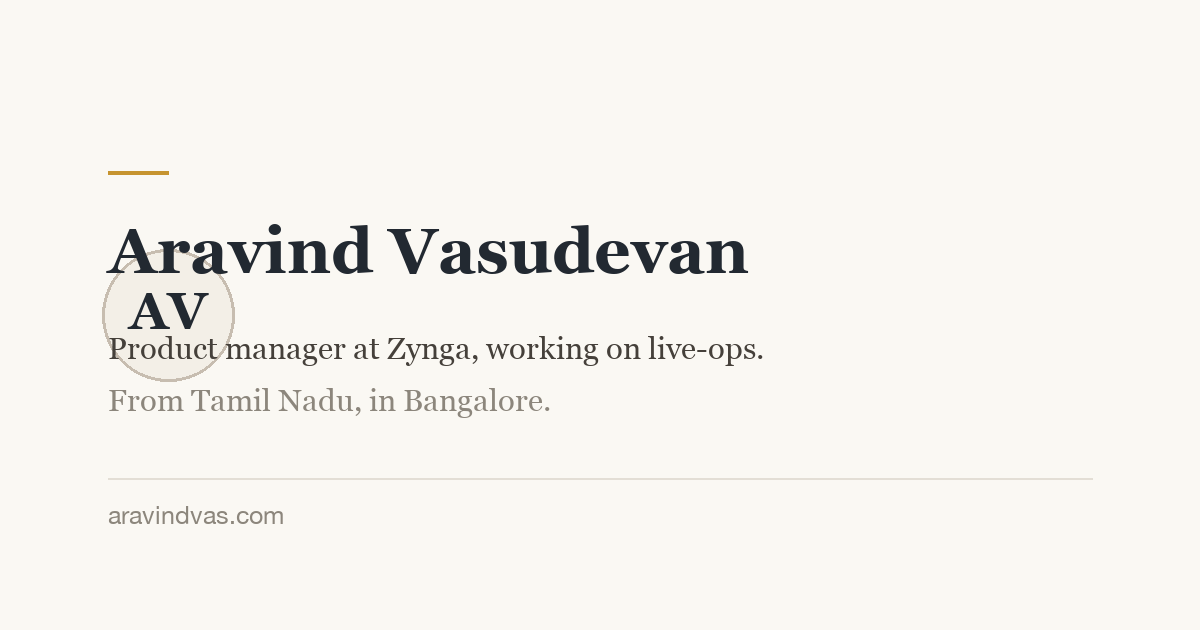
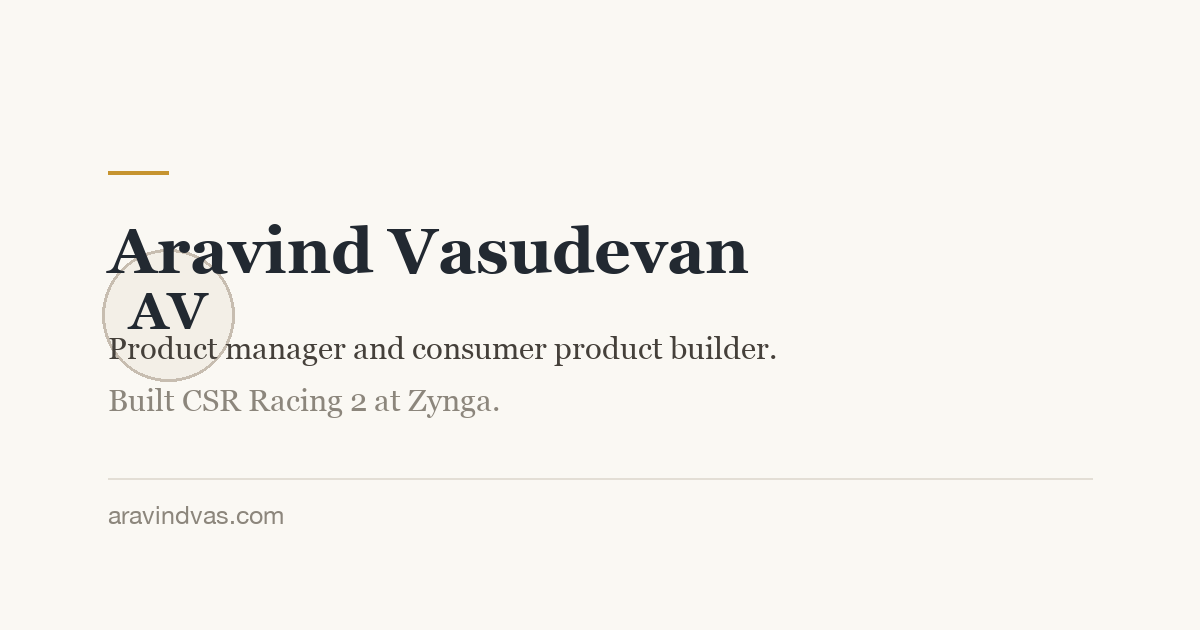
Rewrite both bios in Aravind's own words
Personal: Curious, Social, Chasing Impact; dad to a 2.5 year old;
Bangalore Boy, five languages. Replaces the invented cyclist/chess
copy. Professional: five years at Zynga on CSR Racing 2, owning
LiveOps from decline to growth; ISB MBA.

Also updates meta descriptions, footers, personal Notes and the OG
image to match, and drops the stale Tamil Nadu references.

Changed region(s): [[0.0925, 0.6032, 0.4625, 0.6635], [0.3083, 0.5429, 0.6475, 0.573]]

diff --git a/index.html b/index.html
@@ -5,7 +5,7 @@
 <meta name="viewport" content="width=device-width, initial-scale=1, viewport-fit=cover">
 
 <title>Aravind Vasudevan</title>
-<meta name="description" content="Aravind Vasudevan — product manager at Zynga, working on live-ops. From Tamil Nadu, in Bangalore.">
+<meta name="description" content="Aravind Vasudevan — product manager and consumer product builder. Five years at Zynga building CSR Racing 2, where he owned LiveOps and took the game from decline to growth.">
 
 <link rel="canonical" href="https://aravindvas.com/">
 <meta name="theme-color" content="#fbf9f4" media="(prefers-color-scheme: light)">
@@ -14,15 +14,17 @@
 <meta property="og:type" content="profile">
 <meta property="og:site_name" content="Aravind Vasudevan">
 <meta property="og:title" content="Aravind Vasudevan">
-<meta property="og:description" content="Product manager at Zynga, working on live-ops. From Tamil Nadu, in Bangalore.">
+<meta property="og:description" content="Product manager and consumer product builder. Most recently five years at Zynga, building CSR Racing 2.">
 <meta property="og:url" content="https://aravindvas.com/">
 <meta property="og:image" content="https://aravindvas.com/og.png">
 <meta property="og:image:width" content="1200">
 <meta property="og:image:height" content="630">
 <meta name="twitter:card" content="summary_large_image">
+<meta name="twitter:title" content="Aravind Vasudevan">
+<meta name="twitter:description" content="Product manager and consumer product builder. Most recently five years at Zynga, building CSR Racing 2.">
 <meta name="twitter:image" content="https://aravindvas.com/og.png">
 
-<link rel="icon" href="/favicon.svg?v=2" type="image/svg+xml">
+<link rel="icon" href="/favicon.svg?v=3" type="image/svg+xml">
 
 <script>
 /* Resolve the view and theme before first paint. */
@@ -42,10 +44,10 @@
 })();
 </script>
 
-<link rel="preload" as="font" type="font/woff2" href="/fonts/eb-garamond-normal.woff2?v=2" crossorigin>
-<link rel="preload" as="font" type="font/woff2" href="/fonts/cormorant-garamond-normal.woff2?v=2" crossorigin>
-<link rel="stylesheet" href="/fonts.css?v=2">
-<link rel="stylesheet" href="/styles.css?v=2">
+<link rel="preload" as="font" type="font/woff2" href="/fonts/eb-garamond-normal.woff2?v=3" crossorigin>
+<link rel="preload" as="font" type="font/woff2" href="/fonts/cormorant-garamond-normal.woff2?v=3" crossorigin>
+<link rel="stylesheet" href="/fonts.css?v=3">
+<link rel="stylesheet" href="/styles.css?v=3">
 </head>
 
 <body>
@@ -105,17 +107,15 @@
     <section class="row" data-mode="professional">
       <div class="row__label"><h2>About</h2></div>
       <div class="row__body prose prose--lead">
-        <p>Engineer by training, product manager by accident. I work on live&#8209;ops at
-        <a class="illuminated-link" href="https://www.zynga.com" rel="noopener">Zynga</a>, which mostly
-        means deciding what to put in front of players, and when.</p>
+        <p>Product manager and consumer product builder. Most recently spent five years at
+        <a class="illuminated-link" href="https://www.zynga.com" rel="noopener">Zynga</a>, building
+        CSR&nbsp;Racing&nbsp;2. I owned LiveOps and took the game from decline to growth.</p>
 
-        <p>Before that I spent four years on the other side of the &ldquo;offline&rdquo; fence &mdash; product
-        and analytics for brands running loyalty and retention programmes &mdash; and a couple of years before
-        that as a business analyst, mostly writing SQL and being genuinely surprised by what the data said.</p>
+        <p>In past lives, I did data science for grocery retailers, built loyalty programmes for fashion
+        brands, and led product and growth initiatives across gaming and edtech products.</p>
 
-        <p>The through-line is a preference for the unglamorous middle: the framework that decides what ships,
-        the model that says whether it worked, and the discipline of getting that answer in front of the people
-        who can do something about it. I&rsquo;d rather build the thing than present the thing.</p>
+        <p>MBA from the Indian School of Business. Preparing for a world post AGI/ASI. Currently exploring
+        what to build next.</p>
       </div>
     </section>
 
@@ -123,18 +123,15 @@
     <section class="row" data-mode="personal">
       <div class="row__label"><h2>About</h2></div>
       <div class="row__body prose prose--lead">
-        <p>I grew up in Tamil Nadu, went to engineering college for a mechanical engineering degree I don&rsquo;t
-        use, and ended up in Bangalore building live&#8209;ops for a mobile racing game. Every one of those steps
-        was a detour that turned out to be the point.</p>
+        <p>Curious, Social, Chasing Impact. Husband; Dad to a 2.5 year old.</p>
 
-        <p>Outside work I referee football, which I&rsquo;m qualified to do and about which I have strong and
-        mostly unpopular opinions. I host quiz nights. I do the cooking at family weddings, which in my family
-        is a tradition rather than a talent.</p>
+        <p>Bangalore Boy. Speak 5 languages, learning my 6th.</p>
 
-        <p>I&rsquo;m a cyclist, an amateur cook, and a reliably bad chess player. I like long walks, long
-        flights, and getting a bit lost in a city I don&rsquo;t know yet.</p>
+        <p>I like playing football, designing social experiences &mdash; design and host quizzes, emcee weddings
+        and the like &mdash; and building the education that I want my kid to have.</p>
 
-        <p>Ask me about Tamil food, football, or why live&#8209;ops is harder than it sounds.</p>
+        <p>Currently spending more time enjoying being a dad, while finding interesting things to learn, build,
+        and explore.</p>
       </div>
     </section>
 
@@ -164,17 +161,17 @@
       <div class="row__label"><h2>Notes</h2></div>
       <div class="row__body">
         <ul class="posts">
-          <li><a class="post" href="#notes-20">
-            <span class="post__title">The 20% problem</span>
-            <span class="post__note">on work</span>
+          <li><a class="post" href="#notes-quizzes">
+            <span class="post__title">Designing a quiz that a room actually wants to play</span>
+            <span class="post__note">quizzes</span>
           </a></li>
-          <li><a class="post" href="#notes-ref">
-            <span class="post__title">Refereeing a game you care about</span>
-            <span class="post__note">football</span>
-          </a></li>
-          <li><a class="post" href="#notes-cooking">
-            <span class="post__title">Cooking for forty people</span>
+          <li><a class="post" href="#notes-weddings">
+            <span class="post__title">Emceeing a wedding as a product problem</span>
             <span class="post__note">weddings</span>
+          </a></li>
+          <li><a class="post" href="#notes-education">
+            <span class="post__title">Building the education I want for my kid</span>
+            <span class="post__note">parenting</span>
           </a></li>
         </ul>
       </div>
@@ -241,12 +238,12 @@
   </div>
 
   <footer class="foot">
-    <p data-mode="professional">Aravind Vasudevan &middot; Product, games, and live operations</p>
-    <p data-mode="personal">Aravind &middot; Bangalore &middot; mostly out of doors</p>
+    <p data-mode="professional">Aravind Vasudevan &middot; Product manager and consumer product builder</p>
+    <p data-mode="personal">Aravind &middot; Curious, Social, Chasing Impact</p>
   </footer>
 
 </main>
 
-<script src="/script.js?v=2" defer></script>
+<script src="/script.js?v=3" defer></script>
 </body>
 </html>

diff --git a/404.html b/404.html
@@ -5,9 +5,9 @@
 <meta name="viewport" content="width=device-width, initial-scale=1">
 <title>Not found — Aravind Vasudevan</title>
 <meta name="robots" content="noindex">
-<link rel="icon" href="/favicon.svg?v=2" type="image/svg+xml">
-<link rel="stylesheet" href="/fonts.css?v=2">
-<link rel="stylesheet" href="/styles.css?v=2">
+<link rel="icon" href="/favicon.svg?v=3" type="image/svg+xml">
+<link rel="stylesheet" href="/fonts.css?v=3">
+<link rel="stylesheet" href="/styles.css?v=3">
 <style>
   .page { display: grid; place-content: center; min-height: 100svh; text-align: left; }
   .code { font-size: .74rem; letter-spacing: .2em; text-transform: uppercase;
